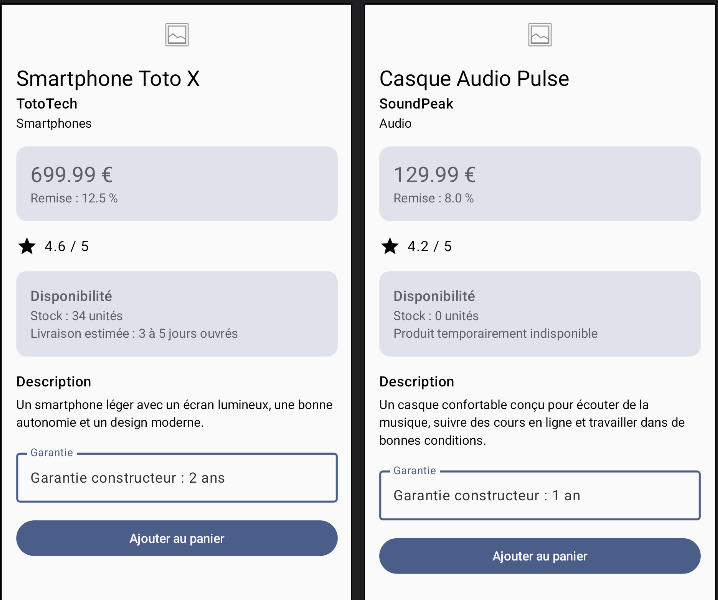
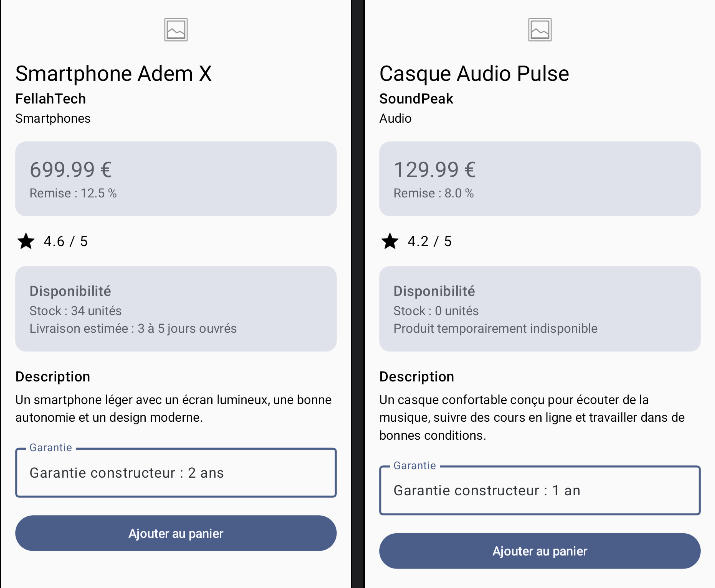
TP5 : écran d'accueil (Column, Row, Box, Spacer, Surface) + produit renommé Smartphone Adem X / FellahTech

diff --git a/app/src/main/java/com/example/productexplorer/MainActivity.kt b/app/src/main/java/com/example/productexplorer/MainActivity.kt
@@ -5,10 +5,13 @@ import androidx.activity.ComponentActivity
 import androidx.activity.compose.setContent
 import androidx.activity.enableEdgeToEdge
 import androidx.compose.foundation.Image
+import androidx.compose.foundation.layout.Box
 import androidx.compose.foundation.layout.Column
 import androidx.compose.foundation.layout.Row
+import androidx.compose.foundation.layout.Spacer
 import androidx.compose.foundation.layout.fillMaxSize
 import androidx.compose.foundation.layout.fillMaxWidth
+import androidx.compose.foundation.layout.height
 import androidx.compose.foundation.layout.padding
 import androidx.compose.material.icons.Icons
 import androidx.compose.material.icons.filled.Star
@@ -18,8 +21,10 @@ import androidx.compose.material3.Icon
 import androidx.compose.material3.MaterialTheme
 import androidx.compose.material3.OutlinedTextField
 import androidx.compose.material3.Scaffold
+import androidx.compose.material3.Surface
 import androidx.compose.material3.Text
 import androidx.compose.runtime.Composable
+import androidx.compose.ui.Alignment
 import androidx.compose.ui.Modifier
 import androidx.compose.ui.res.painterResource
 import androidx.compose.ui.tooling.preview.Preview
@@ -33,10 +38,10 @@ class MainActivity : ComponentActivity() {
         setContent {
             ProductExplorerTheme {
                 Scaffold(modifier = Modifier.fillMaxSize()) { innerPadding ->
-                    ProductDetailScreen(
-                        product = sampleProduct(),
-                        onAddToCartClick = {
-                            // Action à ajouter plus tard
+                    ProductHomeScreen(
+                        featuredProduct = sampleProduct(),
+                        onFeaturedProductClick = {
+                            // Plus tard : ouvrir le détail du produit
                         },
                         modifier = Modifier.padding(innerPadding)
                     )
@@ -63,8 +68,8 @@ data class ProductUi(
 
 fun sampleProduct(): ProductUi {
     return ProductUi(
-        title = "Smartphone Toto X",
-        brand = "TotoTech",
+        title = "Smartphone Adem X",
+        brand = "FellahTech",
         category = "Smartphones",
         description = "Un smartphone léger avec un écran lumineux, une bonne autonomie et un design moderne.",
         price = 699.99,
@@ -307,7 +312,223 @@ fun AddToCartButton(
     }
 }
 
+// ---------- Écran d'accueil (TP5) ----------
+
+@Composable
+fun ProductHomeScreen(
+    featuredProduct: ProductUi,
+    onFeaturedProductClick: () -> Unit,
+    modifier: Modifier = Modifier
+) {
+    Column(
+        modifier = modifier
+            .fillMaxSize()
+            .padding(16.dp)
+    ) {
+        HomeHeader()
+        Spacer(modifier = Modifier.height(24.dp))
+        SearchPreviewBar()
+        Spacer(modifier = Modifier.height(24.dp))
+        FeaturedProductSection(
+            product = featuredProduct,
+            onClick = onFeaturedProductClick
+        )
+        Spacer(modifier = Modifier.height(24.dp))
+        CategoriesSection()
+        Spacer(modifier = Modifier.height(24.dp))
+        DailyOfferBox()
+    }
+}
+
+@Composable
+fun HomeHeader(
+    modifier: Modifier = Modifier
+) {
+    Column(modifier = modifier) {
+        Text(
+            text = "Product Explorer",
+            style = MaterialTheme.typography.headlineMedium
+        )
+        Text(
+            text = "Découvrez les produits du moment",
+            style = MaterialTheme.typography.bodyMedium
+        )
+    }
+}
+
+@Composable
+fun SearchPreviewBar(
+    modifier: Modifier = Modifier
+) {
+    Surface(
+        modifier = modifier.fillMaxWidth(),
+        shape = MaterialTheme.shapes.medium,
+        tonalElevation = 2.dp
+    ) {
+        Text(
+            text = "Rechercher un produit...",
+            modifier = Modifier.padding(16.dp),
+            style = MaterialTheme.typography.bodyMedium
+        )
+    }
+}
+
+@Composable
+fun FeaturedProductSection(
+    product: ProductUi,
+    onClick: () -> Unit,
+    modifier: Modifier = Modifier
+) {
+    Surface(
+        modifier = modifier.fillMaxWidth(),
+        shape = MaterialTheme.shapes.large,
+        tonalElevation = 4.dp
+    ) {
+        Column(
+            modifier = Modifier.padding(16.dp)
+        ) {
+            Text(
+                text = "Produit mis en avant",
+                style = MaterialTheme.typography.titleMedium
+            )
+            Spacer(modifier = Modifier.height(12.dp))
+            Text(
+                text = product.title,
+                style = MaterialTheme.typography.headlineSmall
+            )
+            Text(
+                text = product.brand,
+                style = MaterialTheme.typography.bodyMedium
+            )
+            Spacer(modifier = Modifier.height(12.dp))
+            ProductQuickInfoRow(
+                price = product.price,
+                rating = product.rating,
+                stock = product.stock
+            )
+            Spacer(modifier = Modifier.height(12.dp))
+            Button(onClick = onClick) {
+                Text(text = "Voir le produit")
+            }
+        }
+    }
+}
+
+@Composable
+fun ProductQuickInfoRow(
+    price: Double,
+    rating: Double,
+    stock: Int,
+    modifier: Modifier = Modifier
+) {
+    Row(modifier = modifier.fillMaxWidth()) {
+        Text(
+            text = "$price €",
+            modifier = Modifier.weight(1f)
+        )
+        Text(
+            text = "★ $rating",
+            modifier = Modifier.weight(1f)
+        )
+        Text(
+            text = "$stock en stock",
+            modifier = Modifier.weight(1f)
+        )
+    }
+}
+
+@Composable
+fun CategoryChip(
+    label: String,
+    modifier: Modifier = Modifier
+) {
+    Surface(
+        modifier = modifier,
+        shape = MaterialTheme.shapes.medium,
+        tonalElevation = 2.dp
+    ) {
+        Text(
+            text = label,
+            modifier = Modifier.padding(horizontal = 12.dp, vertical = 8.dp),
+            style = MaterialTheme.typography.bodyMedium
+        )
+    }
+}
+
+@Composable
+fun CategoriesSection(
+    modifier: Modifier = Modifier
+) {
+    Column(modifier = modifier) {
+        Text(
+            text = "Catégories",
+            style = MaterialTheme.typography.titleMedium
+        )
+        Spacer(modifier = Modifier.height(8.dp))
+        Row {
+            CategoryChip(label = "Smartphones")
+            Spacer(modifier = Modifier.weight(1f))
+            CategoryChip(label = "Audio")
+            Spacer(modifier = Modifier.weight(1f))
+            CategoryChip(label = "Maison")
+        }
+    }
+}
+
+@Composable
+fun DailyOfferBox(
+    modifier: Modifier = Modifier
+) {
+    Box(
+        modifier = modifier.fillMaxWidth()
+    ) {
+        Surface(
+            modifier = Modifier.fillMaxWidth(),
+            shape = MaterialTheme.shapes.large,
+            tonalElevation = 2.dp
+        ) {
+            Column(
+                modifier = Modifier.padding(16.dp)
+            ) {
+                Text(
+                    text = "Offre du jour",
+                    style = MaterialTheme.typography.titleMedium
+                )
+                Text(
+                    text = "Jusqu’à -20 % sur une sélection de produits",
+                    style = MaterialTheme.typography.bodyMedium
+                )
+            }
+        }
+        // Badge superposé en haut à droite grâce à Box
+        Surface(
+            modifier = Modifier
+                .align(Alignment.TopEnd)
+                .padding(8.dp),
+            shape = MaterialTheme.shapes.small,
+            tonalElevation = 6.dp
+        ) {
+            Text(
+                text = "Nouveau",
+                modifier = Modifier.padding(horizontal = 8.dp, vertical = 4.dp),
+                style = MaterialTheme.typography.labelMedium
+            )
+        }
+    }
+}
+
 // ---------- Previews ----------
+
+@Preview(showBackground = true)
+@Composable
+fun ProductHomeScreenPreview() {
+    ProductExplorerTheme {
+        ProductHomeScreen(
+            featuredProduct = sampleProduct(),
+            onFeaturedProductClick = {}
+        )
+    }
+}
 
 @Preview(showBackground = true)
 @Composable

diff --git a/README.md b/README.md
@@ -9,6 +9,7 @@ Product Explorer est le projet fil rouge du bloc 2 : il démarre au TP4 et s'enr
 | TP | Thème | Contenu |
 |----|-------|---------|
 | TP4 | Composants fondamentaux | Écran de détail produit |
+| TP5 | Layouts Compose | Écran d'accueil |
 
 ---
 
@@ -32,3 +33,23 @@ Product Explorer est le projet fil rouge du bloc 2 : il démarre au TP4 et s'enr
 **Notions :** `Text`, `Button`, `Icon`, `Image`, `Card`, `TextField`, `Modifier`, callbacks, `@Preview`.
 
 ![Capture TP4](docs/tp4.png)
+
+---
+
+## TP5 – Écran d'accueil
+
+**Objectif :** construire l'écran d'accueil de l'application avec les principaux layouts Compose. L'écran de détail du TP4 reste dans le code, mais c'est l'accueil qui s'affiche au lancement.
+
+**Ce qui a été fait :**
+- `ProductHomeScreen` : écran principal qui assemble les sections dans une `Column`, espacées avec des `Spacer`.
+- `HomeHeader` : titre et sous-titre de l'application.
+- `SearchPreviewBar` : fausse barre de recherche (visuelle uniquement) construite avec une `Surface`.
+- `FeaturedProductSection` : produit mis en avant dans une `Surface`, avec un bouton « Voir le produit » qui expose un callback.
+- `ProductQuickInfoRow` : prix, note et stock côte à côte dans une `Row` avec `weight(1f)`.
+- `CategoryChip` et `CategoriesSection` : petites catégories en `Surface` alignées dans une `Row`.
+- `DailyOfferBox` : bloc « Offre du jour » avec un badge « Nouveau » superposé en haut à droite grâce à `Box` et `Modifier.align(Alignment.TopEnd)`.
+- Preview `ProductHomeScreenPreview`.
+
+**Notions :** `Column`, `Row`, `Box`, `Spacer`, `Surface`, `weight`, `align`, `tonalElevation`.
+
+![Capture TP5](docs/tp5.png)
